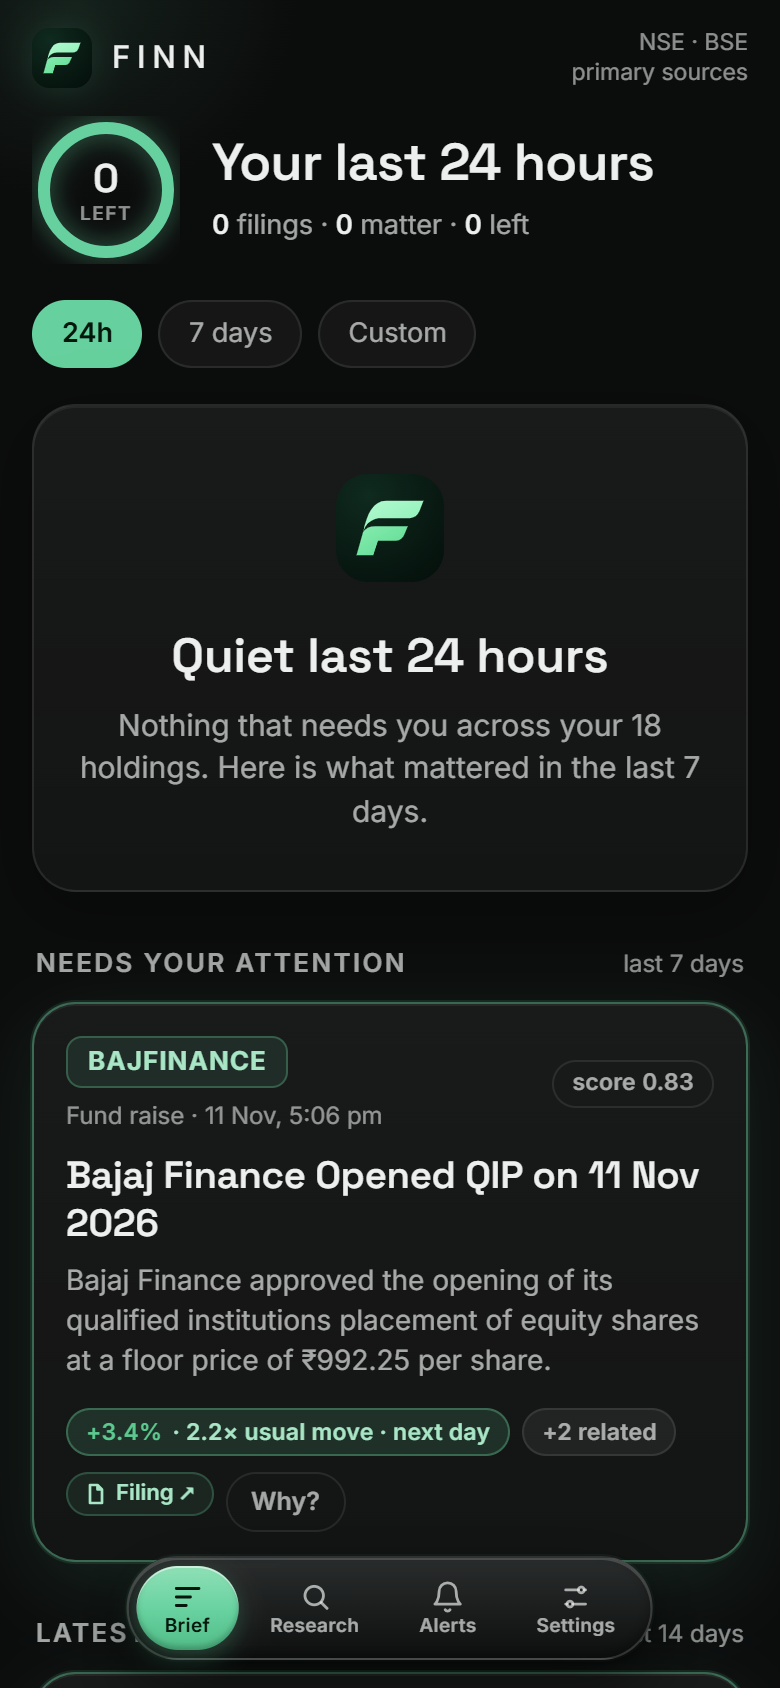
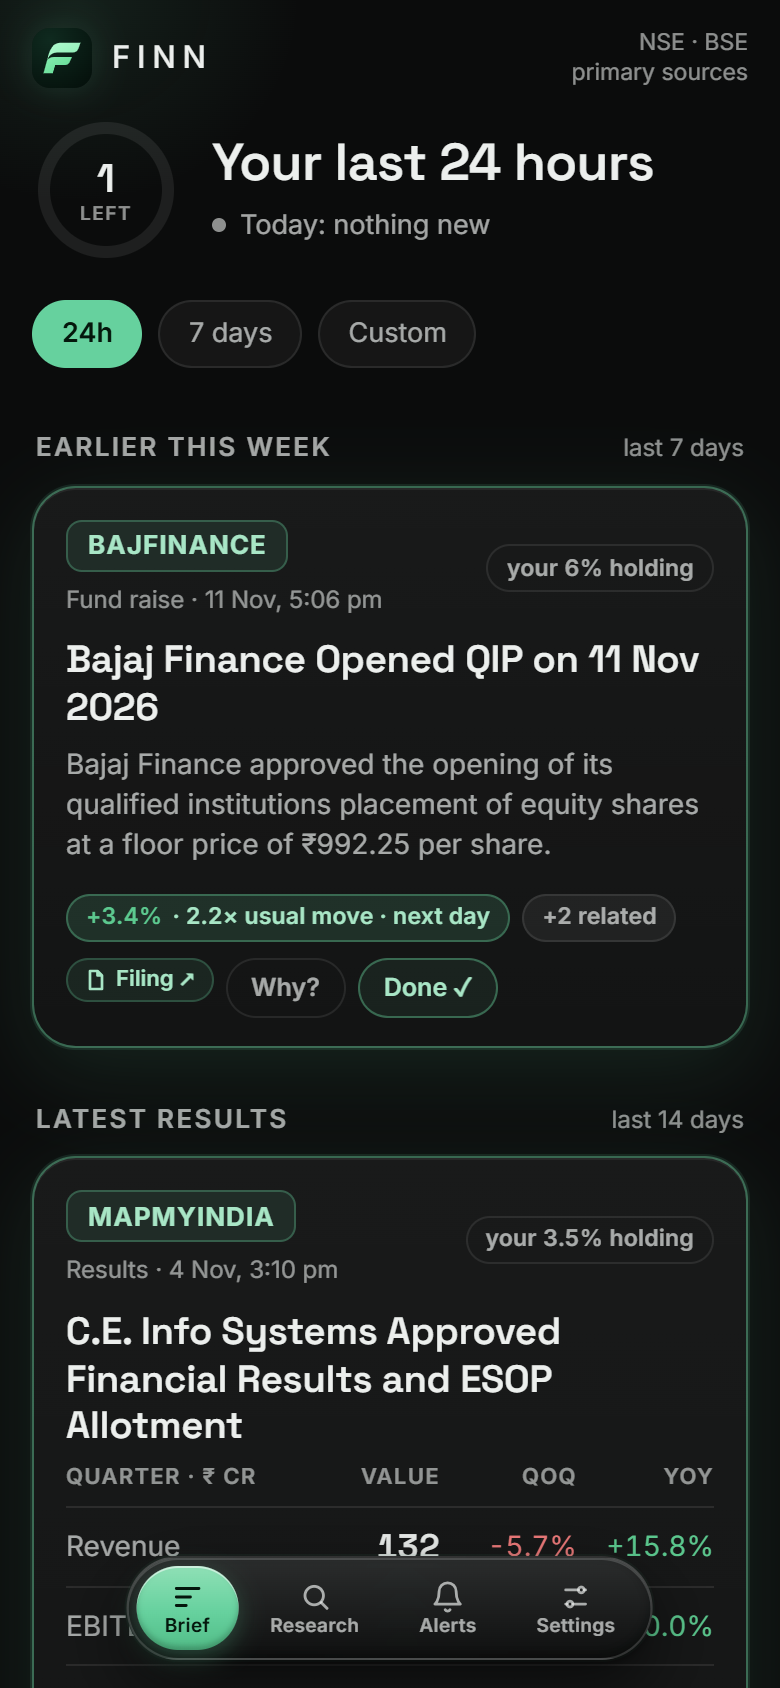
Visible 'Done' button next to Why? on each card (swipe still works)

diff --git a/frontend/src/cards/cards.tsx b/frontend/src/cards/cards.tsx
@@ -207,10 +207,10 @@ export function SwipeCard({ e, onClear, onLess, weight }: { e: Json; onClear: ()
                 <div style={{ display: "flex", gap: 6 }}>
                   {e.url && <Cite href={e.url}>Filing ↗</Cite>}
                   <button className="why-btn" onClick={(ev) => { ev.stopPropagation(); setFlipped(true); }} aria-label={`Why am I seeing ${e.symbol}?`}>Why?</button>
+                  <button className="why-btn done-btn" onClick={(ev) => { ev.stopPropagation(); onClear(); }} aria-label={`Done with ${e.symbol}: clear this card`}>Done ✓</button>
                 </div>
               </div>
               <div className="sr-only">
-                <button onClick={onClear}>Clear this card</button>
                 <button onClick={onLess}>Show less like this</button>
               </div>
             </article>

diff --git a/frontend/src/styles.css b/frontend/src/styles.css
@@ -409,3 +409,5 @@ button:active, .chip:active, .why-btn:active, .btn:active { transform: scale(0.9
 
 .quiet-line { margin-top: 6px; font-size: 13.5px; color: var(--text-2); display: inline-flex; align-items: center; gap: 7px; }
 .quiet-line::before { content: ""; width: 7px; height: 7px; border-radius: 50%; background: var(--text-3); }
+
+.done-btn { color: var(--mint-2); border-color: rgba(102, 209, 158, 0.4); background: rgba(102, 209, 158, 0.08); }
